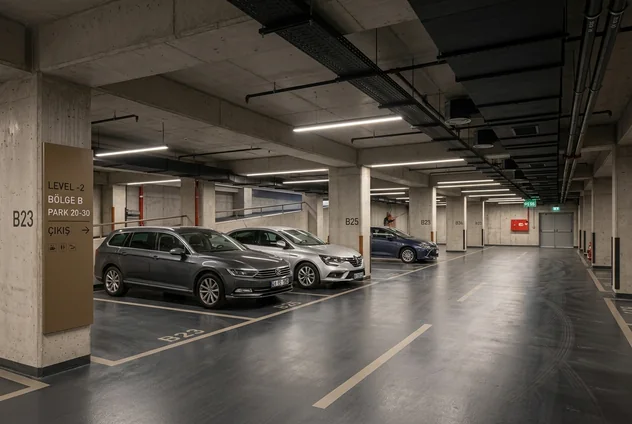
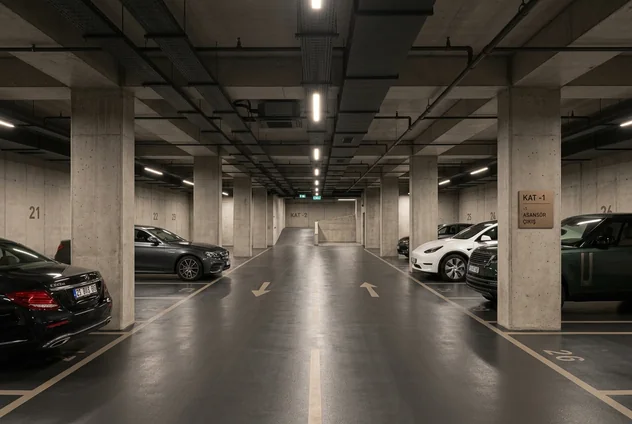
## Beş düzeltme tamam, test %100
**Değişen dosyalar:** `scripts/tac_main.html` · `scripts/tac_overrides.css` · `frontend/js/the-apartments-tac.js` · `frontend/media/images/tac/plans/tac-4plus1.webp` (yeni) · `frontend/media/images/tac/tac-parking.webp` + `-800.webp` · `memory/CHANGELOG.md`

1. **Görsellerin geç yüklenmesi** — sebep animasyon değildi: kat planı **2.5 MB'lık bir PNG**'ydi. Şeffaflığı koruyan **272 KB WebP**'ye çevrildi (≈%89 küçülme). Ayrıca architecture renderı `eager` + `fetchpriority="high"` yapıldı ve açılış gözlemcisi artık eleman ekrana girmeden **300px önce** tetikleniyor, süreler kısaldı (görsel 0.8s, metin 0.75s). Animasyon korundu; siz bölüme vardığınızda görsel çoktan hazır oluyor.
2. **Otopark görseli yenilendi** — Mercedes E-Class, BMW 5 Serisi, Tesla Model Y ve Range Rover; normal park edilmiş, showroom kurgusu / süper otomobil / insan yok, abartısız.
3. **Footnote paragrafı** artık ortada asılı kalmıyor, bulunduğu alanın **sağ kenarına tam dayalı** (1024/1440/1920'de ölçülerek doğrulandı); etiket solda kaldı.
4. **Oda detayları okunurluğu** — masaüstü 13px / mobil 14px, sıra numaraları bronz, m² değerleri daha parlak (`#FFFDF7`) ve tabular rakamlarla sağa dayalı, satır ayırıcıları belirginleşti, Gross/Net satırları büyük harf etiket + daha güçlü çizgiyle öne çıktı, 767px altında tek kolona iniyor. Liste hâlâ planın alt kenarıyla aynı hizada bitiyor (fark 0px).
[…]

diff --git a/frontend/css/the-apartments-tac.css b/frontend/css/the-apartments-tac.css
@@ -1682,12 +1682,12 @@
   .page-tac [data-tac-parking-reveal] .tac-parking-body,
   .page-tac [data-tac-parking-reveal] .tac-parking-figures,
   .page-tac [data-tac-parking-reveal] .tac-parking-note {
-    transition: opacity 1s cubic-bezier(.22, .61, .36, 1), transform 1s cubic-bezier(.22, .61, .36, 1);
+    transition: opacity .75s cubic-bezier(.22, .61, .36, 1), transform .75s cubic-bezier(.22, .61, .36, 1);
     transition-delay: var(--tac-delay, 0s);
   }
   .page-tac [data-tac-parking-reveal].is-pending img { clip-path: inset(0 0 100% 0); transform: scale(1.03); }
   .page-tac [data-tac-parking-reveal] img {
-    transition: clip-path 1.15s cubic-bezier(.22, .61, .36, 1), transform 1.3s cubic-bezier(.22, .61, .36, 1);
+    transition: clip-path .8s cubic-bezier(.22, .61, .36, 1), transform .95s cubic-bezier(.22, .61, .36, 1);
   }
   .page-tac [data-tac-parking-reveal].is-pending figcaption { opacity: 0; }
   .page-tac [data-tac-parking-reveal] figcaption { transition: opacity .9s ease .25s; }
@@ -1718,7 +1718,7 @@
   .page-tac .tac-render-inner.is-pending .tac-render-figure img { clip-path: inset(0 0 100% 0); transform: scale(1.03); }
   .page-tac .tac-render-figure img {
     clip-path: inset(0 0 0 0);
-    transition: clip-path 1.15s cubic-bezier(.22, .61, .36, 1), transform 1.3s cubic-bezier(.22, .61, .36, 1);
+    transition: clip-path .8s cubic-bezier(.22, .61, .36, 1), transform .95s cubic-bezier(.22, .61, .36, 1);
   }
   .page-tac .tac-render-inner.is-pending .tac-render-eyebrow,
   .page-tac .tac-render-inner.is-pending .tac-render-title,
@@ -1728,7 +1728,7 @@
   .page-tac .tac-render-eyebrow,
   .page-tac .tac-render-title,
   .page-tac .tac-render-copy {
-    transition: opacity 1s cubic-bezier(.22, .61, .36, 1), transform 1s cubic-bezier(.22, .61, .36, 1);
+    transition: opacity .75s cubic-bezier(.22, .61, .36, 1), transform .75s cubic-bezier(.22, .61, .36, 1);
     transition-delay: var(--tac-delay, 0s);
   }
 }
@@ -1812,4 +1812,71 @@
   .page-tac .tac-plans-body { grid-template-columns: minmax(0, 1fr); align-items: start; }
   .page-tac .tac-plans-info { height: auto; }
   .page-tac .tac-plans-rows { flex: 0 0 auto; align-content: start; }
+}
+
+/* =========================================================
+   FLOOR PLAN SCHEDULE — clearer, better separated rows
+   ========================================================= */
+.page-tac .tac-plans-row {
+  display: flex; align-items: baseline; justify-content: space-between;
+  gap: 16px; padding: 13px 0;
+  font-family: 'Montserrat', sans-serif; font-weight: 300;
+  font-size: 13.5px; letter-spacing: .035em; line-height: 1.5;
+  color: var(--tac-cream);
+  border-bottom: 1px solid rgba(240, 238, 232, .14);
+}
+.page-tac .tac-plans-row > span:first-child {
+  display: flex; align-items: baseline; gap: 10px;
+  color: var(--tac-cream);
+}
+.page-tac .tac-plans-row em {
+  font-style: normal; font-weight: 400; font-size: 11px;
+  letter-spacing: .06em; color: var(--tac-gold);
+  min-width: 1.8em; margin: 0; flex: 0 0 auto;
+}
+.page-tac .tac-plans-val {
+  font-weight: 400; font-size: 13.5px; letter-spacing: .05em;
+  color: #FFFDF7; font-variant-numeric: tabular-nums;
+  white-space: nowrap; flex: 0 0 auto; text-align: right;
+}
+.page-tac .tac-plans-row--total {
+  padding: 0 0 15px;
+  border-bottom: 1px solid #6E6A61;
+}
+.page-tac .tac-plans-row--total > span:first-child {
+  font-size: 11.5px; font-weight: 500; letter-spacing: .2em;
+  text-transform: uppercase; color: var(--tac-grey);
+}
+.page-tac .tac-plans-row--total .tac-plans-val { font-size: 15px; letter-spacing: .1em; }
+.page-tac .tac-plans-rows > .tac-plans-row:nth-child(2) { padding: 13px 0; border-bottom-color: #5D5A53; }
+.page-tac .tac-plans-rows > .tac-plans-row:nth-child(2) > span:first-child {
+  font-size: 11.5px; font-weight: 500; letter-spacing: .2em; text-transform: uppercase; color: var(--tac-grey);
+}
+.page-tac .tac-plans-rows > .tac-plans-row:nth-child(2) .tac-plans-val { font-size: 15px; letter-spacing: .1em; }
+
+/* footnote: label left, paragraph flush to the right edge of the container */
+.page-tac .tac-plans-footnote {
+  grid-template-columns: minmax(0, auto) minmax(0, 60ch);
+  justify-content: space-between;
+}
+.page-tac .tac-plans-footnote .tac-plans-copy { margin-left: auto; max-width: 60ch; }
+
+@media (max-width: 1100px) {
+  .page-tac .tac-plans-rows { column-gap: clamp(18px, 3vw, 34px); }
+}
+@media (max-width: 767px) {
+  .page-tac .tac-plans-rows { grid-template-columns: minmax(0, 1fr); }
+  .page-tac .tac-plans-rows > .tac-plans-row:nth-child(2),
+  .page-tac .tac-plans-row--total { grid-column: 1; }
+  .page-tac .tac-plans-row { font-size: 14px; padding: 14px 0; gap: 14px; }
+  .page-tac .tac-plans-val { font-size: 14px; }
+  .page-tac .tac-plans-row em { font-size: 11.5px; min-width: 2em; }
+}
+
+/* keep each schedule row on one line at desktop widths */
+@media (min-width: 1101px) {
+  .page-tac .tac-plans-row { font-size: 13px; }
+  .page-tac .tac-plans-val { font-size: 13px; }
+  .page-tac .tac-plans-row > span:first-child { gap: 8px; }
+  .page-tac .tac-plans-row em { min-width: 1.6em; }
 }

diff --git a/scripts/tac_overrides.css b/scripts/tac_overrides.css
@@ -411,12 +411,12 @@
   .page-tac [data-tac-parking-reveal] .tac-parking-body,
   .page-tac [data-tac-parking-reveal] .tac-parking-figures,
   .page-tac [data-tac-parking-reveal] .tac-parking-note {
-    transition: opacity 1s cubic-bezier(.22, .61, .36, 1), transform 1s cubic-bezier(.22, .61, .36, 1);
+    transition: opacity .75s cubic-bezier(.22, .61, .36, 1), transform .75s cubic-bezier(.22, .61, .36, 1);
     transition-delay: var(--tac-delay, 0s);
   }
   .page-tac [data-tac-parking-reveal].is-pending img { clip-path: inset(0 0 100% 0); transform: scale(1.03); }
   .page-tac [data-tac-parking-reveal] img {
-    transition: clip-path 1.15s cubic-bezier(.22, .61, .36, 1), transform 1.3s cubic-bezier(.22, .61, .36, 1);
+    transition: clip-path .8s cubic-bezier(.22, .61, .36, 1), transform .95s cubic-bezier(.22, .61, .36, 1);
   }
   .page-tac [data-tac-parking-reveal].is-pending figcaption { opacity: 0; }
   .page-tac [data-tac-parking-reveal] figcaption { transition: opacity .9s ease .25s; }
@@ -447,7 +447,7 @@
   .page-tac .tac-render-inner.is-pending .tac-render-figure img { clip-path: inset(0 0 100% 0); transform: scale(1.03); }
   .page-tac .tac-render-figure img {
     clip-path: inset(0 0 0 0);
-    transition: clip-path 1.15s cubic-bezier(.22, .61, .36, 1), transform 1.3s cubic-bezier(.22, .61, .36, 1);
+    transition: clip-path .8s cubic-bezier(.22, .61, .36, 1), transform .95s cubic-bezier(.22, .61, .36, 1);
   }
   .page-tac .tac-render-inner.is-pending .tac-render-eyebrow,
   .page-tac .tac-render-inner.is-pending .tac-render-title,
@@ -457,7 +457,7 @@
   .page-tac .tac-render-eyebrow,
   .page-tac .tac-render-title,
   .page-tac .tac-render-copy {
-    transition: opacity 1s cubic-bezier(.22, .61, .36, 1), transform 1s cubic-bezier(.22, .61, .36, 1);
+    transition: opacity .75s cubic-bezier(.22, .61, .36, 1), transform .75s cubic-bezier(.22, .61, .36, 1);
     transition-delay: var(--tac-delay, 0s);
   }
 }
@@ -541,4 +541,71 @@
   .page-tac .tac-plans-body { grid-template-columns: minmax(0, 1fr); align-items: start; }
   .page-tac .tac-plans-info { height: auto; }
   .page-tac .tac-plans-rows { flex: 0 0 auto; align-content: start; }
+}
+
+/* =========================================================
+   FLOOR PLAN SCHEDULE — clearer, better separated rows
+   ========================================================= */
+.page-tac .tac-plans-row {
+  display: flex; align-items: baseline; justify-content: space-between;
+  gap: 16px; padding: 13px 0;
+  font-family: 'Montserrat', sans-serif; font-weight: 300;
+  font-size: 13.5px; letter-spacing: .035em; line-height: 1.5;
+  color: var(--tac-cream);
+  border-bottom: 1px solid rgba(240, 238, 232, .14);
+}
+.page-tac .tac-plans-row > span:first-child {
+  display: flex; align-items: baseline; gap: 10px;
+  color: var(--tac-cream);
+}
+.page-tac .tac-plans-row em {
+  font-style: normal; font-weight: 400; font-size: 11px;
+  letter-spacing: .06em; color: var(--tac-gold);
+  min-width: 1.8em; margin: 0; flex: 0 0 auto;
+}
+.page-tac .tac-plans-val {
+  font-weight: 400; font-size: 13.5px; letter-spacing: .05em;
+  color: #FFFDF7; font-variant-numeric: tabular-nums;
+  white-space: nowrap; flex: 0 0 auto; text-align: right;
+}
+.page-tac .tac-plans-row--total {
+  padding: 0 0 15px;
+  border-bottom: 1px solid #6E6A61;
+}
+.page-tac .tac-plans-row--total > span:first-child {
+  font-size: 11.5px; font-weight: 500; letter-spacing: .2em;
+  text-transform: uppercase; color: var(--tac-grey);
+}
+.page-tac .tac-plans-row--total .tac-plans-val { font-size: 15px; letter-spacing: .1em; }
+.page-tac .tac-plans-rows > .tac-plans-row:nth-child(2) { padding: 13px 0; border-bottom-color: #5D5A53; }
+.page-tac .tac-plans-rows > .tac-plans-row:nth-child(2) > span:first-child {
+  font-size: 11.5px; font-weight: 500; letter-spacing: .2em; text-transform: uppercase; color: var(--tac-grey);
+}
+.page-tac .tac-plans-rows > .tac-plans-row:nth-child(2) .tac-plans-val { font-size: 15px; letter-spacing: .1em; }
+
+/* footnote: label left, paragraph flush to the right edge of the container */
+.page-tac .tac-plans-footnote {
+  grid-template-columns: minmax(0, auto) minmax(0, 60ch);
+  justify-content: space-between;
+}
+.page-tac .tac-plans-footnote .tac-plans-copy { margin-left: auto; max-width: 60ch; }
+
+@media (max-width: 1100px) {
+  .page-tac .tac-plans-rows { column-gap: clamp(18px, 3vw, 34px); }
+}
+@media (max-width: 767px) {
+  .page-tac .tac-plans-rows { grid-template-columns: minmax(0, 1fr); }
+  .page-tac .tac-plans-rows > .tac-plans-row:nth-child(2),
+  .page-tac .tac-plans-row--total { grid-column: 1; }
+  .page-tac .tac-plans-row { font-size: 14px; padding: 14px 0; gap: 14px; }
+  .page-tac .tac-plans-val { font-size: 14px; }
+  .page-tac .tac-plans-row em { font-size: 11.5px; min-width: 2em; }
+}
+
+/* keep each schedule row on one line at desktop widths */
+@media (min-width: 1101px) {
+  .page-tac .tac-plans-row { font-size: 13px; }
+  .page-tac .tac-plans-val { font-size: 13px; }
+  .page-tac .tac-plans-row > span:first-child { gap: 8px; }
+  .page-tac .tac-plans-row em { min-width: 1.6em; }
 }

diff --git a/frontend/the-apartments-tac.html b/frontend/the-apartments-tac.html
@@ -230,7 +230,7 @@
     <div class="tac-render-inner">
       <figure class="tac-render-figure reveal-up">
         <img src="./media/images/tac-ai-render.webp" width="1800" height="2265"
-             alt="The Apartments Taç — architectural render" loading="lazy" decoding="async"
+             alt="The Apartments Taç — architectural render" loading="eager" decoding="async" fetchpriority="high"
              data-testid="tac-render-image" />
       </figure>
       <div class="tac-render-head reveal-up">
@@ -299,7 +299,7 @@
         <div class="tac-plans-viewport">
           <!-- DEV NOTE: typical floor plan supplied by the client; both apartments on the
                floor are 4+1, so the schedule beside it describes one 4+1 residence. -->
-          <img class="tac-plans-img" id="tacPlanImg" src="./media/images/tac/plans/tac-4plus1.png"
+          <img class="tac-plans-img" id="tacPlanImg" src="./media/images/tac/plans/tac-4plus1.webp"
                width="1748" height="1428" alt="The Apartments Taç — typical floor plan, 4+1 residences"
                loading="lazy" decoding="async" data-testid="tac-plan-image" />
         </div>
@@ -424,14 +424,14 @@
     </figure>
     <div class="tac-map reveal-up">
       <div class="tac-map-card">
-        <div class="tac-map-canvas" id="tacMap" data-lat="40.977441822155704" data-lng="29.04879347144911"
+        <div class="tac-map-canvas" id="tacMap" data-lat="40.9771680668217" data-lng="29.049068608464168"
              role="region" aria-label="Dark map showing the location of The Apartments Taç in Selamiçeşme"
              data-testid="tac-map-canvas"></div>
         <div class="tac-map-info">
           <div class="tac-map-loc">The Apartments Taç<span>Selamiçeşme, Bağdat Caddesi, Istanbul</span></div>
-          <div class="tac-map-coords">40.977442&deg;N &nbsp; 29.048793&deg;E</div>
+          <div class="tac-map-coords">40.977168&deg;N &nbsp; 29.049069&deg;E</div>
         </div>
-        <a class="tac-map-open" href="https://www.google.com/maps/search/?api=1&amp;query=40.977442,29.048793"
+        <a class="tac-map-open" href="https://www.google.com/maps/search/?api=1&amp;query=40.977168,29.049069"
            target="_blank" rel="noopener noreferrer" data-testid="tac-map-link">View on Google Maps &rarr;</a>
       </div>
     </div>

diff --git a/scripts/tac_main.html b/scripts/tac_main.html
@@ -44,7 +44,7 @@
     <div class="tac-render-inner">
       <figure class="tac-render-figure reveal-up">
         <img src="./media/images/tac-ai-render.webp" width="1800" height="2265"
-             alt="The Apartments Taç — architectural render" loading="lazy" decoding="async"
+             alt="The Apartments Taç — architectural render" loading="eager" decoding="async" fetchpriority="high"
              data-testid="tac-render-image" />
       </figure>
       <div class="tac-render-head reveal-up">
@@ -113,7 +113,7 @@
         <div class="tac-plans-viewport">
           <!-- DEV NOTE: typical floor plan supplied by the client; both apartments on the
                floor are 4+1, so the schedule beside it describes one 4+1 residence. -->
-          <img class="tac-plans-img" id="tacPlanImg" src="./media/images/tac/plans/tac-4plus1.png"
+          <img class="tac-plans-img" id="tacPlanImg" src="./media/images/tac/plans/tac-4plus1.webp"
                width="1748" height="1428" alt="The Apartments Taç — typical floor plan, 4+1 residences"
                loading="lazy" decoding="async" data-testid="tac-plan-image" />
         </div>
@@ -238,14 +238,14 @@
     </figure>
     <div class="tac-map reveal-up">
       <div class="tac-map-card">
-        <div class="tac-map-canvas" id="tacMap" data-lat="40.977441822155704" data-lng="29.04879347144911"
+        <div class="tac-map-canvas" id="tacMap" data-lat="40.9771680668217" data-lng="29.049068608464168"
              role="region" aria-label="Dark map showing the location of The Apartments Taç in Selamiçeşme"
              data-testid="tac-map-canvas"></div>
         <div class="tac-map-info">
           <div class="tac-map-loc">The Apartments Taç<span>Selamiçeşme, Bağdat Caddesi, Istanbul</span></div>
-          <div class="tac-map-coords">40.977442&deg;N &nbsp; 29.048793&deg;E</div>
+          <div class="tac-map-coords">40.977168&deg;N &nbsp; 29.049069&deg;E</div>
         </div>
-        <a class="tac-map-open" href="https://www.google.com/maps/search/?api=1&amp;query=40.977442,29.048793"
+        <a class="tac-map-open" href="https://www.google.com/maps/search/?api=1&amp;query=40.977168,29.049069"
            target="_blank" rel="noopener noreferrer" data-testid="tac-map-link">View on Google Maps &rarr;</a>
       </div>
     </div>

diff --git a/frontend/js/the-apartments-tac.js b/frontend/js/the-apartments-tac.js
@@ -136,7 +136,7 @@
     groups.forEach(g => {
       g.classList.add('is-pending');
       [...g.querySelectorAll('.tac-parking-eyebrow, .tac-parking-heading, .tac-parking-body, .tac-parking-figures, .tac-parking-note, .tac-render-eyebrow, .tac-render-title, .tac-render-copy')]
-        .forEach((el, i) => el.style.setProperty('--tac-delay', (0.06 + i * 0.11).toFixed(2) + 's'));
+        .forEach((el, i) => el.style.setProperty('--tac-delay', (0.04 + i * 0.08).toFixed(2) + 's'));
     });
     const io = new IntersectionObserver((entries, obs) => {
       entries.forEach(e => {
@@ -144,7 +144,7 @@
         e.target.classList.remove('is-pending');
         obs.unobserve(e.target);
       });
-    }, { rootMargin: '0px 0px -12% 0px', threshold: 0.16 });
+    }, { rootMargin: '300px 0px 0px 0px', threshold: 0 });
     groups.forEach(g => io.observe(g));
   }
 })();

diff --git a/memory/CHANGELOG.md b/memory/CHANGELOG.md
@@ -76,3 +76,11 @@ Do NOT edit the generated html/css directly — edit the two `scripts/` sources 
 - **Schedule no longer dangles.** `SPACE AS THE DEFINING FEATURE` + its paragraph moved out of the right column into a full-width `.tac-plans-footnote` below the plan body; the m² schedule became a two-column grid (the Gross/Net rows spanning both) and the info column now stretches to the drawing's height with `align-content: space-between`, so the last row ends exactly level with the bottom of the plan (measured delta 0px at 1440 and 1920).
 - Below 1100px the drawing becomes shorter than the schedule, so the section stacks and the bottom-alignment constraint is dropped (this was the one MEDIUM finding at 1024 in iteration_43).
 - Verified: `/app/test_reports/iteration_43.json` (header parity, section colours, two-column schedule, footnote, mobile stacking, plus a no-error/no-overflow sweep of east-west, index, projects, contact, construction and design since `script.js` is shared) and `/app/test_reports/iteration_44.json` — 100%, 0 issues, 0 overflow at 390/430/768/1024/1440/1920.
+
+### Taç: image weight/timing, premium parking cars, footnote alignment, schedule legibility, corrected coordinates
+- **Slow images fixed at the source, not by removing the animation.** The real cause was a **2.5 MB PNG** floor plan; it is now a **272 KB alpha WebP** (`tac-4plus1.webp`, PNG kept only as the working source). The architecture render is `loading="eager" fetchpriority="high"`, and the reveal observer now fires **300px before** an element enters the viewport (`rootMargin: 300px 0px 0px 0px`, `threshold: 0`) with shorter transitions (image clip 0.8s, text 0.75s, stagger 0.08s), so sections are already resolved by the time they are read.
+- **Parking visual regenerated** with understated executive cars (Mercedes E-Class, BMW 5 Series, Tesla Model Y, Range Rover) parked normally — no showroom staging, supercars, people or marble. 112 KB WebP + 32 KB small variant.
+- **Footnote paragraph is now flush right**: the footnote grid is `auto / 60ch` with `margin-left: auto` on the copy, so its right edge matches the container's right edge exactly (verified at 1024/1440/1920) with the label staying left.
+- **Schedule legibility**: 13px desktop / 14px mobile rows, bronze tabular row numbers, values in `#FFFDF7` with tabular figures, stronger `rgba(240,238,232,.14)` dividers, the Gross/Net rows lifted to uppercase bronze-grey labels with a `#6E6A61` rule, and a single column below 767px. The schedule still ends exactly level with the bottom of the drawing (delta 0px).
+- **Map coordinates corrected** to `40.9771680668217, 29.049068608464168` in the map centre, the marker, the printed label (`40.977168°N 29.049069°E`) and the Google Maps link; the old 40.977442/29.048793 pair no longer appears anywhere.
+- Verified: testing agent `/app/test_reports/iteration_45.json` — **100%, 0 issues**, 0 overflow and 0 console errors at 390/430/768/1024/1440/1920, East West regression clean.
